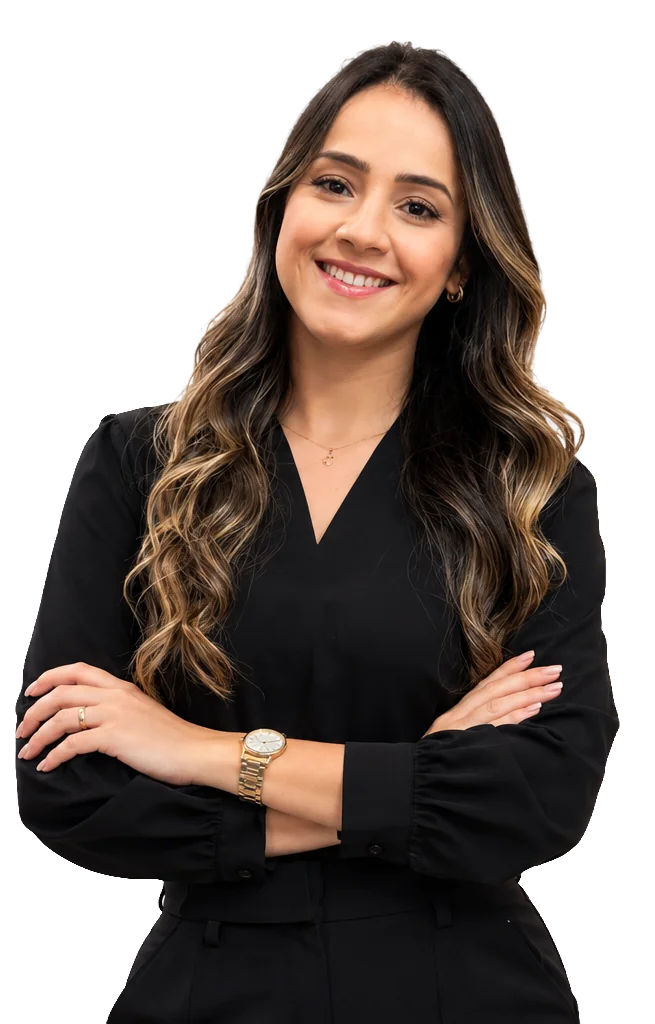
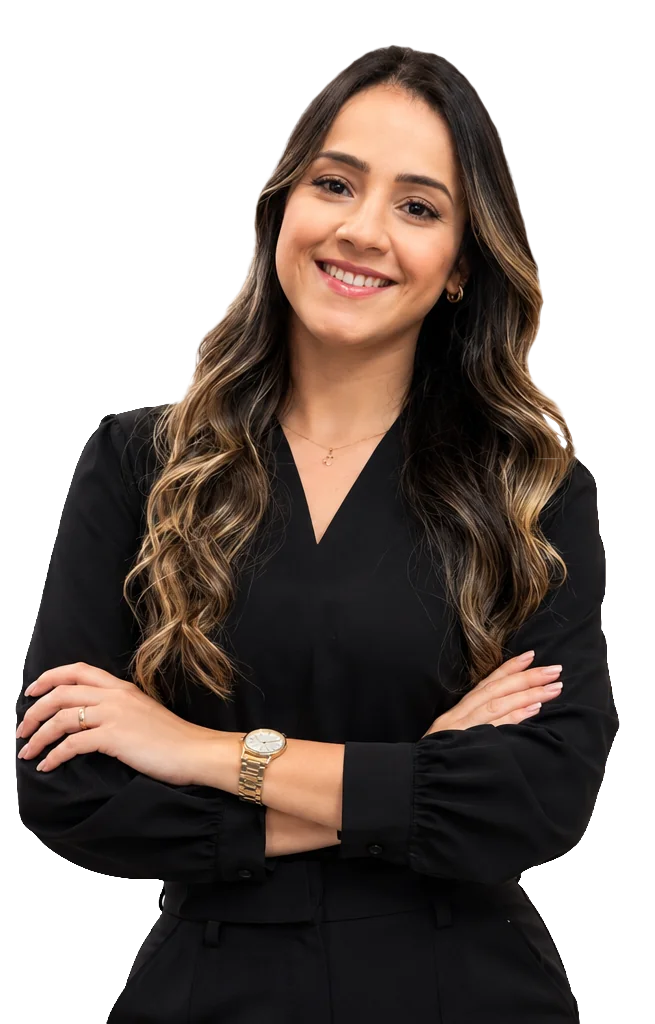
Fundo panorâmico no topo e recorte novo da Juliana
- Foto da Juliana com o recorte do cabelo refeito: sem o contorno claro
  que sobrava do fundo branco original.
- Fundo do topo trocado pela versão panorâmica (2092x752): no desktop o mar
  e a cidade ficam atrás da Juliana, e telas largas não esticam a foto.
- Direção de arte com <picture> e getImageProps: abaixo de 1024px entra um
  corte da janela com o mar (a faixa da foto no celular é quase quadrada, e
  a panorâmica inteira seria baixada para mostrar só uma fatia). Cada tela
  baixa um arquivo só: 42 KB no celular, 68 KB no desktop, em AVIF.
- O `sizes` acompanha a largura em que o fundo é desenhado (escalado pela
  altura), não a da caixa, para a foto não sair borrada no celular.

Lighthouse: celular 92, desktop 100; acessibilidade e boas práticas 100.

diff --git a/apps/site/src/components/home/Hero.tsx b/apps/site/src/components/home/Hero.tsx
@@ -1,10 +1,50 @@
 import { House, KeyRound } from 'lucide-react';
-import Image from 'next/image';
+import Image, { getImageProps } from 'next/image';
 
 import { BotaoWhatsApp } from '@/components/BotaoWhatsApp';
 import { Botao } from '@/components/ui/Botao';
-import { MIDIA } from '@/config/midia';
+import { MIDIA, type Foto } from '@/config/midia';
 import { urlDaListagem } from '@/lib/imoveis/listagem';
+
+/*
+ * A largura em que o fundo é DESENHADO, que é o que o navegador precisa para
+ * escolher o arquivo. Com `object-cover`, a foto é escalada pela altura e fica
+ * mais larga que a própria caixa:
+ *  - celular (<640px): faixa de 320px × 1,64 (proporção do corte) ≈ 525px;
+ *  - de 640px a 1023px: a largura da tela vence;
+ *  - desktop: topo de ~680px × 2,78 (panorâmica) ≈ 1900px, ou a tela, se maior.
+ */
+const TAMANHOS_CELULAR = '(min-width: 640px) 100vw, 530px';
+const TAMANHOS_DESKTOP = '(min-width: 1900px) 100vw, 1900px';
+const TELA_DESKTOP = '(min-width: 1024px)';
+
+/**
+ * Fundo com direção de arte: a panorâmica inteira no desktop e, abaixo dele, o
+ * corte da janela com o mar. O `<picture>` faz o navegador baixar só UMA das
+ * duas. É o caminho que a documentação do Next indica (`getImageProps`), e o
+ * `<img>` sai com o mesmo srcset otimizado do componente `Image`.
+ */
+function FundoDoHero({ foto }: { foto: Foto }) {
+  const comum = { alt: '', fill: true } as const;
+  const {
+    props: { srcSet: srcSetDesktop },
+  } = getImageProps({ ...comum, src: foto.src, sizes: TAMANHOS_DESKTOP });
+  const { props } = getImageProps({
+    ...comum,
+    src: foto.celular ?? foto.src,
+    sizes: TAMANHOS_CELULAR,
+    // É o maior elemento da tela no celular e no desktop.
+    loading: 'eager',
+    fetchPriority: 'high',
+  });
+
+  return (
+    <picture>
+      <source media={TELA_DESKTOP} srcSet={srcSetDesktop} sizes={TAMANHOS_DESKTOP} />
+      <img {...props} alt="" className="object-cover object-[65%_50%] lg:object-[55%_50%]" />
+    </picture>
+  );
+}
 
 /**
  * O topo da home, no desenho do modelo.
@@ -17,9 +57,9 @@ import { urlDaListagem } from '@/lib/imoveis/listagem';
  * abaixo, sobre o grafite. O preto da blusa se funde com o fundo escuro.
  *
  * O fundo é o maior elemento da tela tanto no celular (a faixa da foto) quanto
- * no desktop (o topo inteiro): é o caso de `preload`, que começa o download já
- * no <head>. A foto da Juliana, menor que ele nas duas telas, carrega logo mas
- * com prioridade normal, para não disputar banda com o fundo no 4G.
+ * no desktop (o topo inteiro): carrega na frente, com prioridade alta. A foto
+ * da Juliana, menor que ele nas duas telas, carrega logo mas com prioridade
+ * normal, para não disputar banda com o fundo no 4G.
  */
 export function Hero() {
   const { julianaHero, fundoHero } = MIDIA;
@@ -29,19 +69,10 @@ export function Hero() {
   return (
     <section className="relative isolate overflow-hidden bg-grafite text-white">
       {fundoHero && (
+        // Sem desfoque provisório (`placeholder="blur"`): ele é um filtro SVG,
+        // caro de desenhar no celular. O grafite de fundo faz o papel de espera.
         <div aria-hidden className={`absolute inset-x-0 top-0 -z-20 lg:bottom-0 ${faixaDaFoto}`}>
-          <Image
-            src={fundoHero.src}
-            alt=""
-            fill
-            sizes="100vw"
-            preload
-            // Sem `placeholder="blur"`: o desfoque provisório é um filtro SVG,
-            // caro de desenhar no celular, e atrasava a primeira pintura. O
-            // grafite de fundo já faz o papel de espera.
-            // No celular a faixa é estreita: mostra a janela e o mar, não o sofá.
-            className="object-cover object-[72%_40%] lg:object-center"
-          />
+          <FundoDoHero foto={fundoHero} />
         </div>
       )}
       <div

diff --git a/apps/site/src/config/midia.ts b/apps/site/src/config/midia.ts
@@ -1,5 +1,6 @@
 import type { StaticImageData } from 'next/image';
 
+import fundoHeroCelular from '@/assets/fotos/fundo-hero-celular.webp';
 import fundoHero from '@/assets/fotos/fundo-hero.webp';
 import julianaSentada from '@/assets/fotos/juliana-sentada.webp';
 import juliana from '@/assets/fotos/juliana.webp';
@@ -26,6 +27,12 @@ export interface Foto {
    * cortaria o rosto numa delas.
    */
   enquadramento?: string;
+  /**
+   * Corte próprio para telas estreitas (direção de arte). Uma foto panorâmica
+   * numa caixa quase quadrada mostra só uma fatia dela: sem o corte, o celular
+   * baixaria a foto inteira (larga) para exibir essa fatia.
+   */
+  celular?: StaticImageData;
 }
 
 const JULIANA: Foto = {
@@ -58,7 +65,8 @@ export const MIDIA: {
     // pouco para ele nunca sair do quadro, mesmo nas caixas mais baixas.
     enquadramento: '45% 30%',
   },
-  fundoHero: { src: fundoHero, alt: '' },
+  // Panorâmica (2092x752). No celular, o corte da janela com o mar e a cidade.
+  fundoHero: { src: fundoHero, alt: '', celular: fundoHeroCelular },
   fundoRegioes: null,
   fundoCaptacao: null,
 };

diff --git a/docs/DECISOES.md b/docs/DECISOES.md
@@ -167,6 +167,11 @@ relação ao briefing, já combinado:
     2 s. Não é o site. Para medir aqui, usar
     `--chrome-flags="--headless=new --disable-gpu-vsync --disable-frame-rate-limit"`,
     ou medir o site publicado no PageSpeed Insights.
+- [x] Fundo do topo panorâmico e recorte novo do cabelo da Juliana (24/09).
+  - O fundo usa direção de arte (`<picture>` com `getImageProps`): a
+    panorâmica inteira no desktop e, abaixo de 1024px, o corte da janela com
+    o mar. Cada tela baixa só uma: 42 KB no celular, 68 KB no desktop.
+  - Lighthouse: celular 92, desktop 100.
 - [x] Retrato da seção Sobre (24/09): a Juliana sentada no sofá, na home
       (quadrado no desktop, sem corte) e na página /sobre.
 - [ ] Fotos que ainda faltam (`config/midia.ts`):
